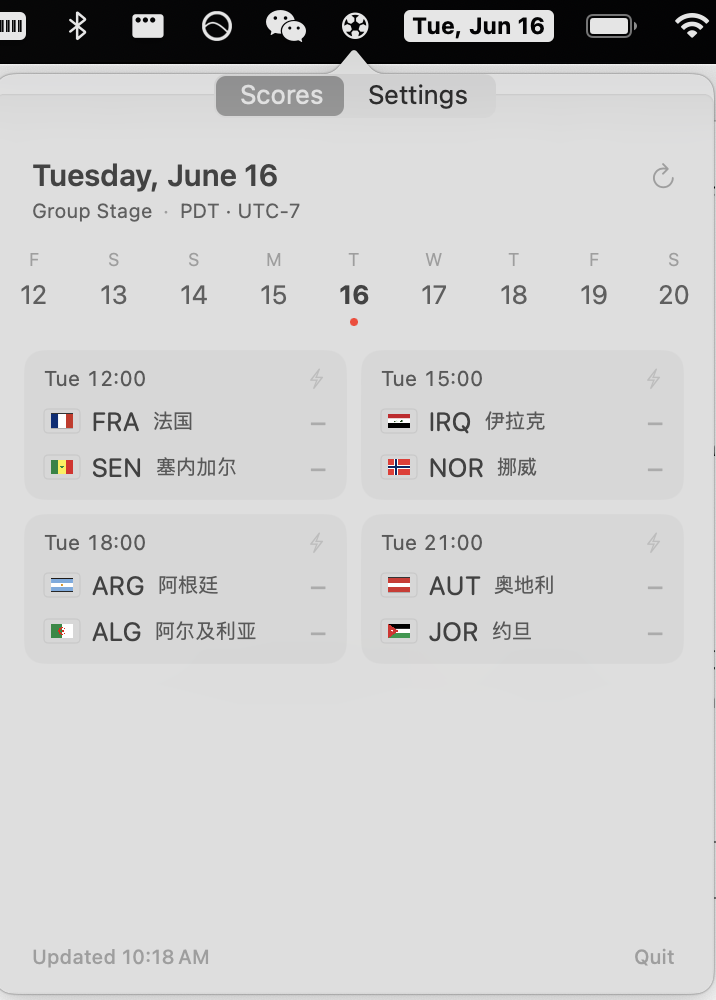
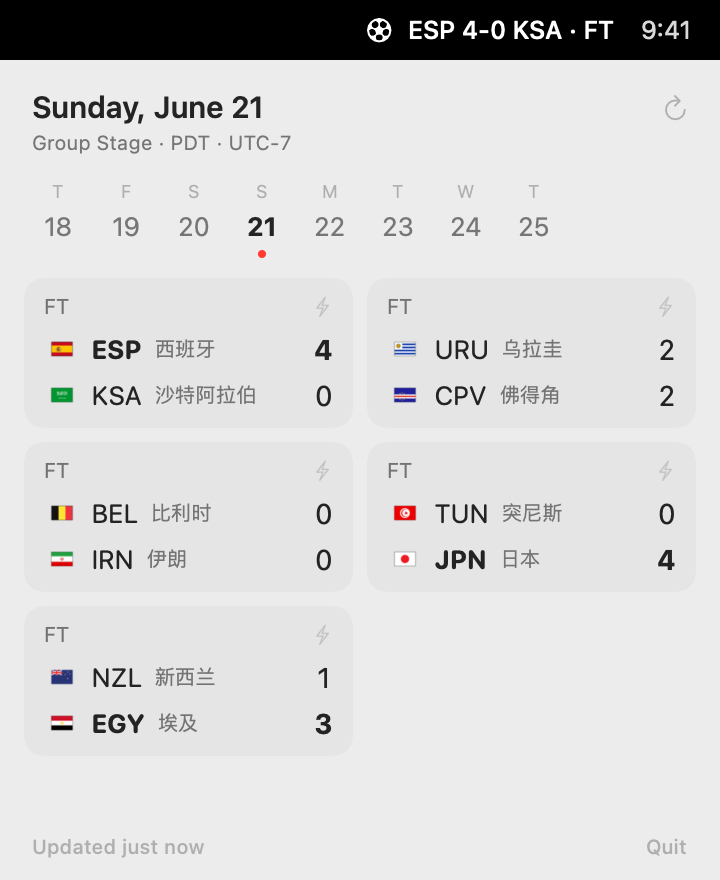
Replace fabricated demo with real Jun 21 WC results (static); drop fake GIF

diff --git a/README.md b/README.md
@@ -5,7 +5,7 @@ A tiny native macOS menu-bar app that shows live FIFA World Cup 2026 scores, gla
 ![menu bar](https://img.shields.io/badge/macOS-13%2B-blue) ![swift](https://img.shields.io/badge/Swift-5.9-orange)
 
 <p align="center">
-  <img src="assets/demo.gif" alt="Touchline live in the macOS menu bar: scores updating on their own while the panel shows the day's World Cup matches" width="380">
+  <img src="assets/demo.png" alt="Touchline in the macOS menu bar showing the day's World Cup matches in a 2-column grid with live scores, flags, and the tournament date strip" width="380">
 </p>
 
 ## Features